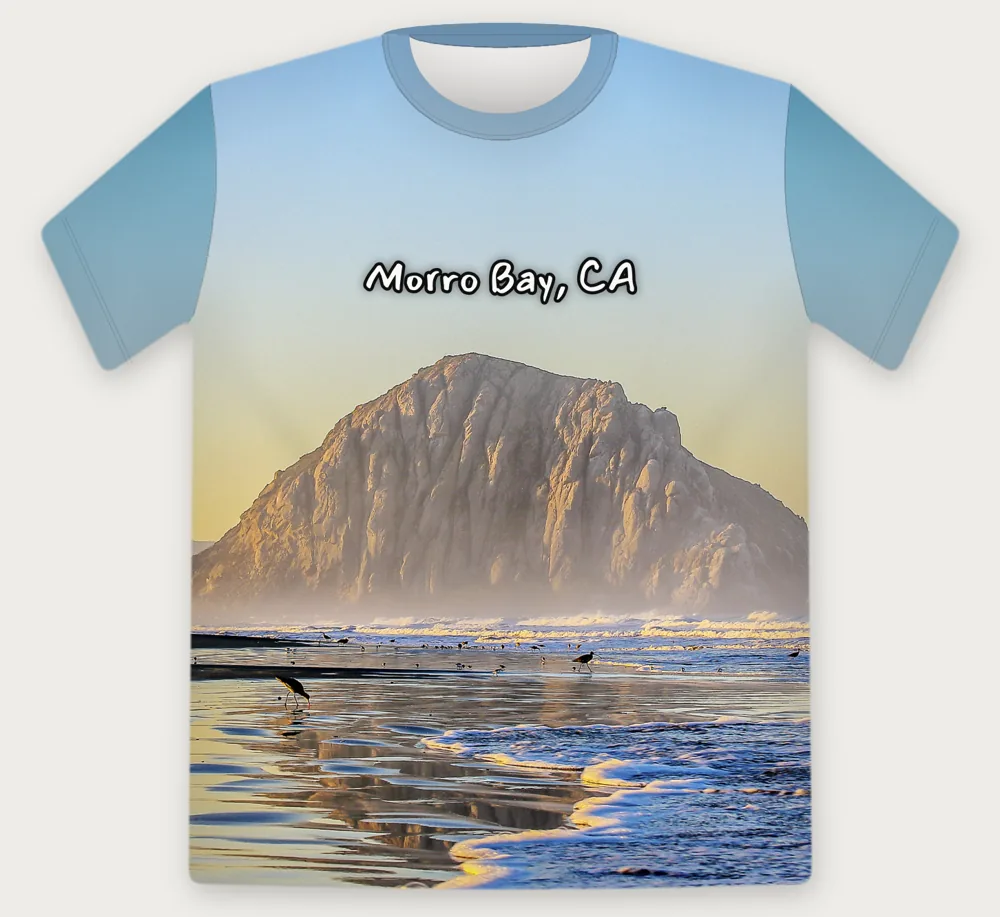
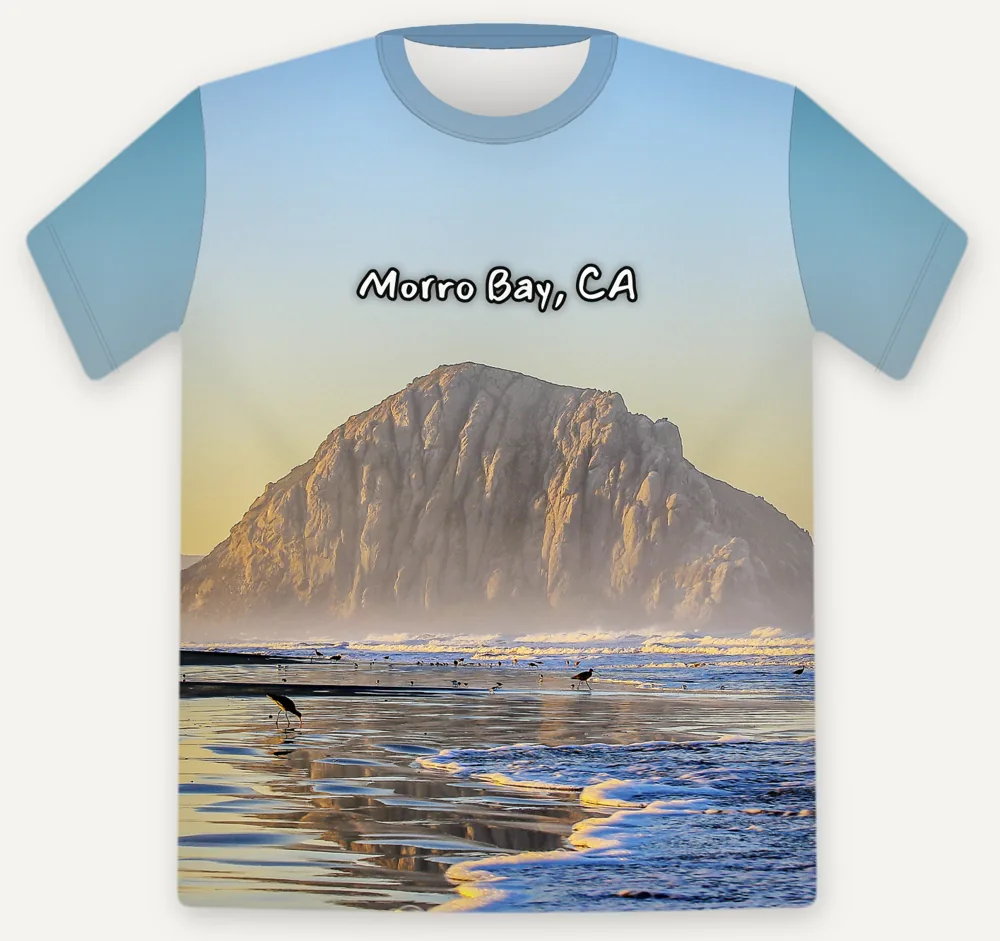
feat(preview): Morro Bay preview shows the crossover backs (otter badge / Morro Rock badge)

diff --git a/lib/previews.ts b/lib/previews.ts
@@ -114,10 +114,10 @@ export const previews: Preview[] = [
     line: "Two shirts made just for your shop, not sold online. Printed edge to edge on soft cotton, with \u201cMorro Bay, CA\u201d on the front.",
     gallery: [
       img(MORRO, "set", 1400, 650, "The Morro Rock shirt and the sea otter shirt side by side", "The pair", true),
-      img(MORRO, "morro-rock-front", 1000, 917, "All-over tee with Morro Rock at sunrise and Morro Bay, CA script", "Morro Rock \u00b7 front \u00b7 photo: Vanessa Kay (CC BY 3.0)"),
-      img(MORRO, "morro-rock-back", 1000, 917, "Back of the Morro Rock tee: sky fading to sand", "Morro Rock \u00b7 back"),
-      img(MORRO, "otter-front", 1000, 917, "All-over tee with a sea otter floating on its back and Morro Bay, CA script", "Sea Otter \u00b7 front"),
-      img(MORRO, "otter-back", 1000, 917, "Back of the sea otter tee: soft water fade", "Sea Otter \u00b7 back"),
+      img(MORRO, "morro-rock-front", 1000, 941, "All-over tee with Morro Rock at sunrise and Morro Bay, CA script", "Morro Rock \u00b7 front \u00b7 photo: Vanessa Kay (CC BY 3.0)"),
+      img(MORRO, "morro-rock-back", 1000, 941, "Back of the Morro Rock tee with a round sea otter badge", "Morro Rock \u00b7 back (otter badge)"),
+      img(MORRO, "otter-front", 1000, 941, "All-over tee with a sea otter floating on its back and Morro Bay, CA script", "Sea Otter \u00b7 front"),
+      img(MORRO, "otter-back", 1000, 941, "Back of the sea otter tee with a round Morro Rock badge", "Sea Otter \u00b7 back (Morro Rock badge)"),
     ],
   },
 ];
